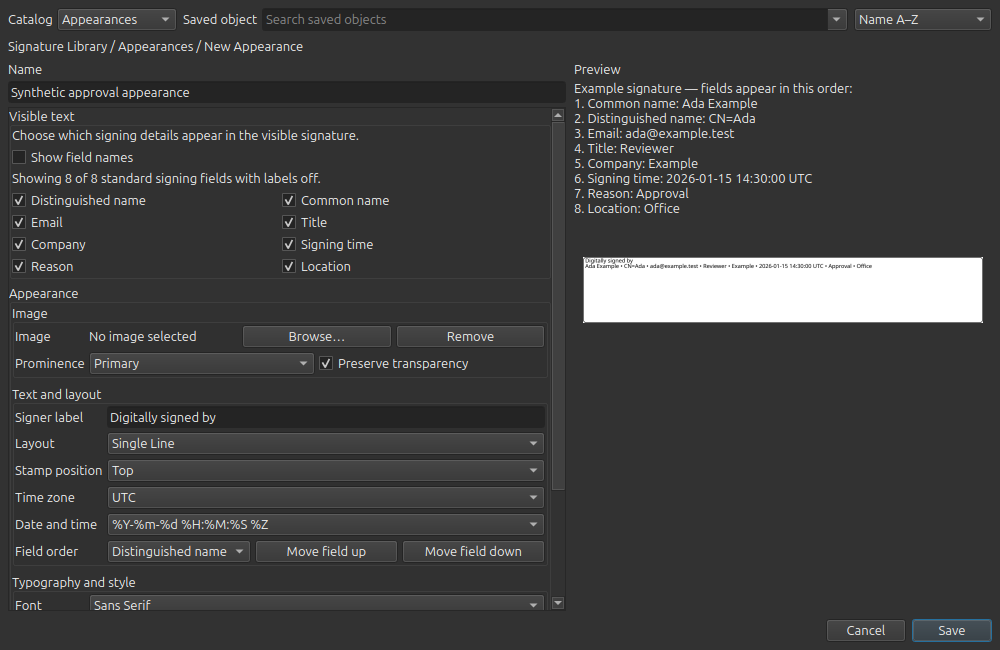
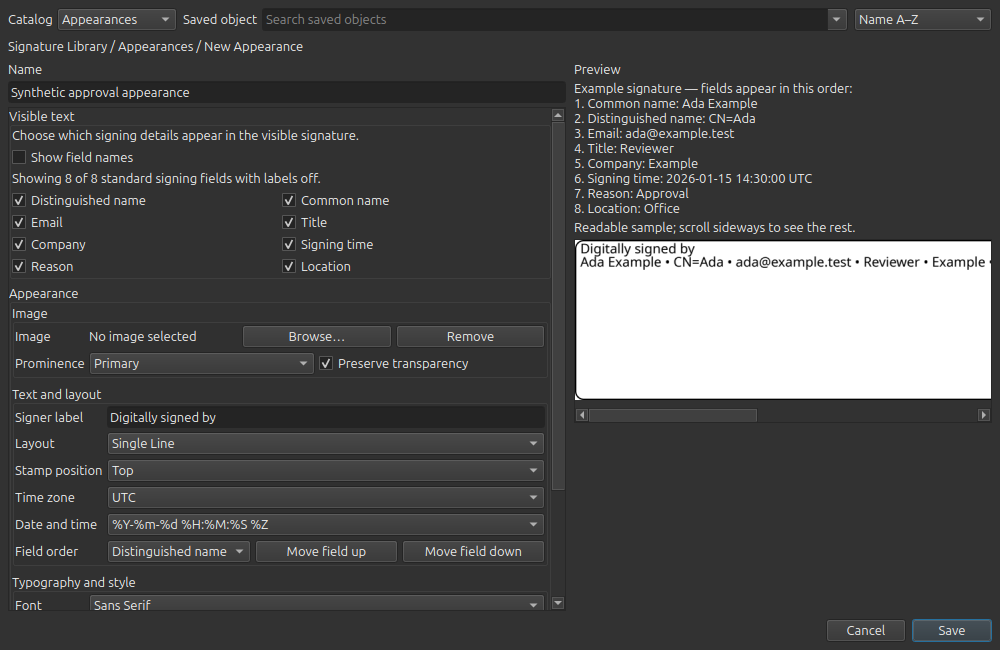
Improve Appearance preview readability

Changed region(s): [[0.558, 0.3385, 0.992, 0.6154]]

diff --git a/src/foliaseal/presentation/qt/appearance_profile_editor_widget.py b/src/foliaseal/presentation/qt/appearance_profile_editor_widget.py
@@ -52,6 +52,7 @@ class AppearanceProfileEditorWidgetControls:
     breadcrumb_label: Any
     sample_preview_label: Any
     sample_preview_image: Any
+    sample_preview_scroll_area: Any | None
     name_input: Any
     setup_form: QtVisibleSignatureSetupForm
     save_button: Any
@@ -263,14 +264,26 @@ class AppearanceProfileEditorWidget:
         if hasattr(sample_preview, "setMinimumHeight"):
             sample_preview.setMinimumHeight(112)
         preview_layout.addWidget(sample_preview)
+        preview_hint = bindings.q_label("Readable sample; scroll sideways to see the rest.")
+        if hasattr(preview_hint, "setWordWrap"):
+            preview_hint.setWordWrap(True)
+        preview_layout.addWidget(preview_hint)
         sample_preview_image = bindings.q_label("")
-        if hasattr(sample_preview_image, "setMinimumHeight"):
-            sample_preview_image.setMinimumHeight(140)
         if hasattr(sample_preview_image, "setAlignment"):
             alignment = getattr(getattr(bindings, "qt", None), "AlignCenter", None)
             if alignment is not None:
                 sample_preview_image.setAlignment(alignment)
-        preview_layout.addWidget(sample_preview_image)
+        sample_preview_scroll_area = None
+        scroll_factory = getattr(bindings, "q_scroll_area", None)
+        if callable(scroll_factory):
+            sample_preview_scroll_area = scroll_factory()
+            sample_preview_scroll_area.setWidgetResizable(False)
+            sample_preview_scroll_area.setFixedHeight(184)
+            sample_preview_scroll_area.setAccessibleName("Signature sample preview")
+            sample_preview_scroll_area.setWidget(sample_preview_image)
+            preview_layout.addWidget(sample_preview_scroll_area)
+        else:
+            preview_layout.addWidget(sample_preview_image)
         if hasattr(preview_layout, "addStretch"):
             preview_layout.addStretch()
 
@@ -304,7 +317,6 @@ class AppearanceProfileEditorWidget:
         form_layout.setContentsMargins(0, 0, 0, 0)
         form_layout.addWidget(setup_form.visible_text_controls.container)
         form_layout.addWidget(setup_form.appearance_controls.container)
-        scroll_factory = getattr(bindings, "q_scroll_area", None)
         scroll_area = None
         if callable(scroll_factory):
             scroll_area = scroll_factory()
@@ -330,6 +342,7 @@ class AppearanceProfileEditorWidget:
             breadcrumb_label=breadcrumb,
             sample_preview_label=sample_preview,
             sample_preview_image=sample_preview_image,
+            sample_preview_scroll_area=sample_preview_scroll_area,
             name_input=name_input,
             setup_form=setup_form,
             save_button=save_button,
@@ -485,7 +498,7 @@ class AppearanceProfileEditorWidget:
             state = lifecycle.refresh(
                 preview=preview,
                 preview_scale=2.0,
-                inner_body_width=400,
+                inner_body_width=960,
                 inner_body_height=180,
                 fallback_card_style="",
                 flatten_to_white=True,
@@ -500,6 +513,9 @@ class AppearanceProfileEditorWidget:
         if pixmap is not None and callable(set_pixmap):
             set_pixmap(pixmap)
             self._last_preview_pixmap = pixmap
+            adjust_size = getattr(preview_image, "adjustSize", None)
+            if callable(adjust_size):
+                adjust_size()
         set_visible = getattr(preview_image, "setVisible", None)
         if callable(set_visible):
             set_visible(pixmap is not None)

diff --git a/tests/integration/test_appearance_editor_preview.py b/tests/integration/test_appearance_editor_preview.py
@@ -50,6 +50,8 @@ def _bindings() -> SimpleNamespace:
 def test_live_preview_is_composed_and_stays_visible_when_form_scrolls() -> None:
     os.environ.setdefault("QT_QPA_PLATFORM", "offscreen")
     pytest.importorskip("PySide6")
+    from PySide6.QtCore import Qt
+    from PySide6.QtTest import QTest
     from PySide6.QtWidgets import QApplication
 
     app = QApplication.instance() or QApplication(["foliaseal-appearance-preview-test"])
@@ -79,6 +81,14 @@ def test_live_preview_is_composed_and_stays_visible_when_form_scrolls() -> None:
 
     rendered_preview = editor.controls.sample_preview_image.pixmap()
     assert rendered_preview is not None
+    preview_scroll = editor.controls.sample_preview_scroll_area
+    assert preview_scroll is not None
+    assert rendered_preview.width() >= 900
+    assert preview_scroll.horizontalScrollBar().maximum() > 0
+    preview_scroll.setFocus()
+    QTest.keyClick(preview_scroll, Qt.Key.Key_Right)
+    app.processEvents()
+    assert preview_scroll.horizontalScrollBar().value() > 0
     rendered_image = rendered_preview.toImage()
     before_pixels = sha256(rendered_image.constBits().tobytes()).digest()
     for x, y in (
@@ -96,6 +106,11 @@ def test_live_preview_is_composed_and_stays_visible_when_form_scrolls() -> None:
     assert after_pixels != before_pixels
     assert "1. Common name" in preview.text()
     assert "2. Distinguished name" in preview.text()
+    preview_scroll.horizontalScrollBar().setValue(
+        preview_scroll.horizontalScrollBar().maximum()
+    )
+    app.processEvents()
+    assert preview_scroll.horizontalScrollBar().value() > 0
 
     footer_geometry = editor.controls.action_row.geometry()
     preview_geometry = preview.geometry()

diff --git a/scripts/capture_compact_library_layout.py b/scripts/capture_compact_library_layout.py
@@ -249,6 +249,11 @@ def main() -> int:
                 if appearance is not None
                 else None
             )
+            sample_scroll = (
+                appearance.controls.sample_preview_scroll_area
+                if appearance is not None
+                else None
+            )
             report = {
                 "phase": args.phase,
                 "state": args.state,
@@ -278,6 +283,14 @@ def main() -> int:
                 "sample_pixmap": (
                     [image_pixmap.width(), image_pixmap.height()]
                     if image_pixmap is not None
+                    else None
+                ),
+                "sample_horizontal_scroll": (
+                    {
+                        "maximum": sample_scroll.horizontalScrollBar().maximum(),
+                        "viewport_width": sample_scroll.viewport().width(),
+                    }
+                    if sample_scroll is not None
                     else None
                 ),
                 "appearance_field_order": (

diff --git a/tests/unit/test_qt_signing_shell.py b/tests/unit/test_qt_signing_shell.py
@@ -164,6 +164,7 @@ class _FakeWidget:
         self.visible = True
         self.fixed_size = None
         self.fixed_width = None
+        self.fixed_height = None
         self.maximum_width = None
         self.minimum_size = None
         self.minimum_width = None
@@ -195,6 +196,9 @@ class _FakeWidget:
 
     def setFixedWidth(self, width):  # noqa: N802
         self.fixed_width = width
+
+    def setFixedHeight(self, height):  # noqa: N802
+        self.fixed_height = height
 
     def setMaximumWidth(self, width):  # noqa: N802
         self.maximum_width = width
@@ -243,7 +247,7 @@ class _FakeWidget:
         if width is None:
             width = self._width_value
 
-        height = self.fixed_size[1] if self.fixed_size is not None else 24
+        height = self.fixed_size[1] if self.fixed_size is not None else self.fixed_height or 24
 
         class _Hint:
             def __init__(self, width_value, height_value) -> None:

diff --git a/docs/ExecPlans/004-compact-signature-library-editor.md b/docs/ExecPlans/004-compact-signature-library-editor.md
@@ -30,7 +30,12 @@ A user can open Manage Reusable Signing Objects, select a catalog and saved obje
 - [x] (2026-09-24) Run the bounded source visual loop for the installed-review findings. Candidate 1 corrected header label attachment, regrouped the Appearance controls, and replaced the most visible internal language; candidate 2 corrected the remaining spacing and copy issues; compliance review found the Saved object field still expanded internally, so candidate 3 added control stretch and enforced a strict 0–12 px label/control gap. All six refreshed retained PNG/JSON captures passed actual image inspection.
 - [x] (2026-09-24) Correct the installed-review regression in the Appearance preview. The first canonical-renderer candidate made field-order changes observable but overlapped and clipped; the replacement uses canonical semantics, an opaque page context, concise deterministic values, a wide sample rectangle, and a numbered order guide. Direct review of default, reordered, selected-image, and scrolled PNGs passed with no material finding; focused validation passed 60 tests.
 - [x] (2026-09-24) Complete replacement-candidate automated validation. Unit tests passed 1,614 with 19 skips and one existing Pillow deprecation warning; integration passed 71 with one skip plus the isolated real-offscreen polling test; Ruff, diff checking, and the ExecPlan checker passed.
-- [ ] Commit the source correction, build and audit a fresh package, install it, and complete human Library acceptance.
[2 lines of base64/hex data omitted]
+- [x] (2026-09-26 01:50Z) Record the second installed human review as failed: the configured 10 pt text was barely readable after the 720 pt sample was reduced to a 400 px image. Reopen source correction and reject the 320 pt sample candidate because its single-line content clips.
+- [x] (2026-09-26 01:50Z) Render the original canonical sample at a readable width inside a horizontally scrollable preview viewport. Directly inspect refreshed default, reordered, selected-image, and scrolled X11 captures. The visible 10 pt text is legible, and the guide, image composition, footer, and form scrolling remain coherent.
+- [x] (2026-09-26 01:54Z) Complete correction validation and independent compliance review. Unit tests passed 1,614 with 19 skips and one existing Pillow warning; integration passed 71 with one skip plus the isolated polling test; Ruff, diff checking, and the plan checker passed. The initial review flagged the guide's horizontal-scroll wording; a focused clarification and keyboard scroll test resolved it, and the follow-up review found no remaining material conflict.
+- [ ] Commit the correction, build and audit a new package, install it, and obtain human Library acceptance of preview readability, field-order controls, selected image, scrolling/footer, keyboard focus, and save/edit/rename workflows.
 - [ ] Reconcile this plan and the installed-package release matrix, commit final evidence/status, and resume the remaining release gates.
 
 ## Surprises & Discoveries
@@ -57,6 +62,10 @@ A user can open Manage Reusable Signing Objects, select a catalog and saved obje
   Evidence: `final-appearance-default.*`, `final-appearance-reordered.*`, and `final-appearance-image.*`; focused preview tests.
 - Observation: Rebuilding the field-order combo emitted transient incomplete orders while `clear()` and `addItems()` ran, which could reach preview construction and raise `ValueError`. Blocking compound-control signals and emitting one final change removes that invalid intermediate state; the preview also preserves its last valid raster if another compound control reports a transient invalid draft.
   Evidence: buffered installed-session traceback and the corrected `_move_field()` / `_refresh_preview()` paths.
+- Observation: The sandboxed display-backed package audit could not reach `DISPLAY=:0` and the packaged GUI exited before startup. The same artifact passed the real-X11 audit outside the sandbox with `qt_platform=xcb` and `gui_startup.status=started`.
+  Evidence: `xdpyinfo -display :0` succeeded outside the sandbox; `/tmp/foliaseal-compact-preview-HkDEkS/evidence/audit.json` records the passing audit.
+- Observation: The installed reviewer could barely read 10 pt text. The 720 pt sample was rendered at zoom 2 but then reduced to a 400 px image, leaving glyphs only a few pixels tall. Shrinking the sample rectangle to 320 pt preserved text size but clipped the single-line signature.
+  Evidence: installed human report on 2026-09-25; rejected `/tmp/foliaseal-compact-preview-HkDEkS/scale-candidate-1/` capture; accepted source captures under `docs/visual-evidence/compact-library/`.
 
 ## Decision Log
 
@@ -90,10 +99,13 @@ A user can open Manage Reusable Signing Objects, select a catalog and saved obje
 - Decision: Use at most three autonomous visual candidates, followed by one owner-authorized focused pass if needed.
   Rationale: The screenshot loop must correct material findings without turning release work into unlimited redesign. The earlier Appearance pilot used the same bounded pattern successfully.
   Date/Author: 2026-09-19 / Codex
+- Decision: Present the canonical 720 pt synthetic sample in a readable, horizontally scrollable viewport.
+  Rationale: Compressing the whole single-line sample into 400 px obscures the configured font size, while narrowing the sample clips the configured content. A viewport preserves the sample's content and proportions and lets users inspect it at legible size. The on-page preview remains authoritative for the final document.
+  Date/Author: 2026-09-26 / Codex
 
 ## Outcomes & Retrospective
 
-Implementation, independent code/compliance review, documentation reconciliation, automated validation, and the bounded visual loops are complete through the latest source candidate. The first loop corrected the compact topology; installed human review then reopened the slice for header-label attachment, Appearance grouping, user-facing copy, and finally the nonfunctional composed preview. The preview now uses canonical semantics and rendering; the replacement default/reordered/image/scrolled captures pass direct inspection after the first rendered candidate was rejected for overlap and clipping. A clean source commit, package build and audits, installation, and repeat human acceptance remain open; source geometry tests and screenshot review cannot substitute for the installed gate.
+Implementation, independent code/compliance review, documentation reconciliation, automated validation, and the bounded visual loops were complete through commit `eb667de98`. The first loop corrected the compact topology; installed human review then reopened the slice for header-label attachment, Appearance grouping, user-facing copy, and a nonfunctional composed preview. The fresh package from that commit passed all three audits and was installed, but the next human review found 10 pt text barely readable. The corrected source now keeps the canonical sample while presenting it in a readable, horizontally scrollable viewport; refreshed default/reordered/image/scrolled captures pass direct inspection. Full validation and follow-up compliance review pass. A new clean commit/package/audit/install cycle and installed human acceptance remain open. Source geometry tests and screenshot review cannot substitute for the installed gate.
 
 ## Context and Orientation
 
@@ -230,3 +242,9 @@ Revision note: Revised again after re-review to select a concrete completer-back
 Revision note: Activated on 2026-09-20 after red topology evidence. The initial compact implementation and automated green pass are recorded; independent review, retained visual evidence, package audits, installation, and human acceptance remain open.
 
 Revision note: Reopened on 2026-09-24 after installed human review accepted the compact topology but identified detached header labels, inefficient Appearance grouping, and prototype/MVP/preset-centric user-facing copy. Candidate 1 and candidate 2 corrected those findings; compliance review then found the Saved object field could still expand internally, and candidate 3 fixed the control stretch and added a strict 0–12 px gap assertion. All six final captures passed actual PNG inspection; a new source commit, package, audits, reinstall, and installed HITL remain pending.
+
+Revision note: Updated on 2026-09-26 after source commit `eb667de98`, the three passing audits of one exact package, and authenticated installation. The installed GUI is open under an isolated profile; owner acceptance and release-matrix reconciliation remain pending.
+
+Revision note: Reopened again on 2026-09-26 after the installed owner found the 10 pt preview text barely readable. Rejected a narrower sample that clipped content and retained a readable scrollable source candidate. A fresh package and installed review are required because the installed `eb667de98` artifact contains the failed preview.
+
+Revision note: Updated on 2026-09-26 after full source validation and follow-up compliance review. The style guide now distinguishes a scrollable signature-sample detail viewport from the Library form, and the real-Qt test verifies keyboard movement inside that viewport.

diff --git a/docs/visual-evidence/compact-library/REVIEW.md b/docs/visual-evidence/compact-library/REVIEW.md
@@ -76,11 +76,24 @@ reordered states visibly exchange the first two fields with no overlap or
 clipping; the actual raster pixels also differ. The selected image is composed
 above the signature text without collision, and scrolling leaves the guide,
 raster, and footer stationary. The review did not pixel-match the normative
-SVGs. Raster text is necessarily small when the wide sample is scaled into the
-available preview column, so installed human review must still confirm practical
-readability and live response under the system theme.
+SVGs.
 
-The source correction has not yet been accepted as an installed release. A
-new commit, fresh package checksum, offline/private/display-backed audits,
+The installed human review then failed the readability gate: 10 pt text was
+barely legible because the 720 pt sample width was compressed to 400 screen
+pixels. A narrower 320 pt sample made the text larger but clipped the
+single-line content, so it was rejected. The accepted source candidate keeps
+the canonical 720 pt sample and presents a 960 px render in a 400 px horizontal
+viewport. The visible instruction explains how to inspect the rest. I opened
+the refreshed default, reordered, image, and scrolled PNGs. The text is now
+legible in the visible portion; moving the first field changes both the guide
+and the raster; the image remains composed above the text; and the preview and
+footer stay fixed when the form scrolls. The horizontal viewport is an
+intentional preview control, not a Library-wide horizontal scrollbar. The
+matching JSON records a 960 by 160 sample inside a 416 px viewport with a
+544 px horizontal scroll range. The real-Qt test confirms a focused viewport
+responds to the Right arrow while the form itself has no horizontal scrollbar.
+
+The readability correction has not yet been accepted as an installed release.
+A new commit, fresh package checksum, offline/private/display-backed audits,
 reinstall, and repeat installed human review remain required. Keyboard focus,
 high contrast, and accessibility technology checks remain separate gates.

diff --git a/docs/visual-evidence/compact-library/README.md b/docs/visual-evidence/compact-library/README.md
@@ -25,7 +25,10 @@ image roots. The deterministic states are final Presets, a true-empty
 Placements catalog, Certificates, and Appearance default, reordered-field,
 selected-image, and substantially scrolled states. The default and reordered
 captures use identical conditions and demonstrate that moving the first field
-down changes the composed signature preview. Each generated PNG has a matching JSON report
+down changes the composed signature preview. The sample is shown at a readable
+size in a horizontally scrollable viewport, so the first part is visible at
+the supported minimum window size and the rest can be inspected by scrolling.
+Each generated PNG has a matching JSON report
 with actual geometry, style, font metrics, palette, screen, device-pixel
 ratio, active catalog, object selector state, scrollbar state, and relevant
 widget geometry.

diff --git a/docs/GUI_STYLE_GUIDE.md b/docs/GUI_STYLE_GUIDE.md
@@ -15,6 +15,10 @@ required labels and actions must remain visible and content must not require
 routine horizontal scrolling. Long forms may scroll vertically. A preview
 marked as sticky and the action footer must remain in place while form
 controls scroll.
+An Appearance sample can have its own horizontal detail viewport when a
+single-line signature is too wide to show legibly at the Library minimum. Keep
+the full field-order summary visible beside it and label the scrolling action.
+The Library form itself must still avoid horizontal scrolling.
 
 The Library keeps catalog navigation, saved-object selection, sorting, and
 object-management actions in a compact header. The fixed four-catalog choice
